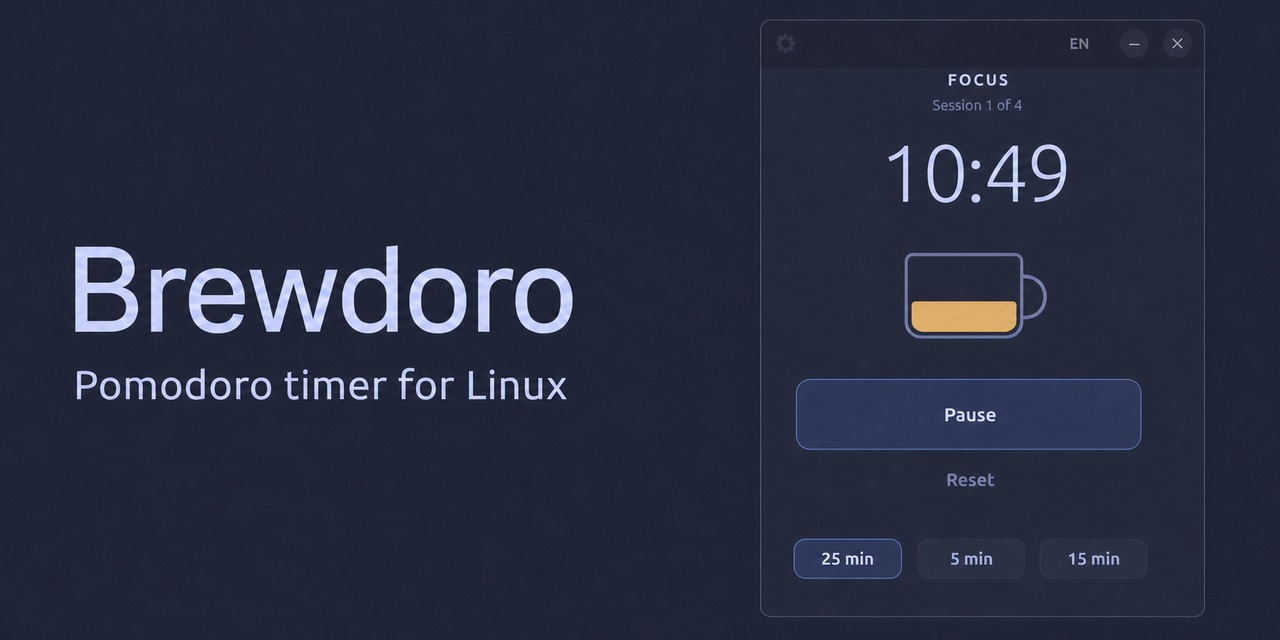
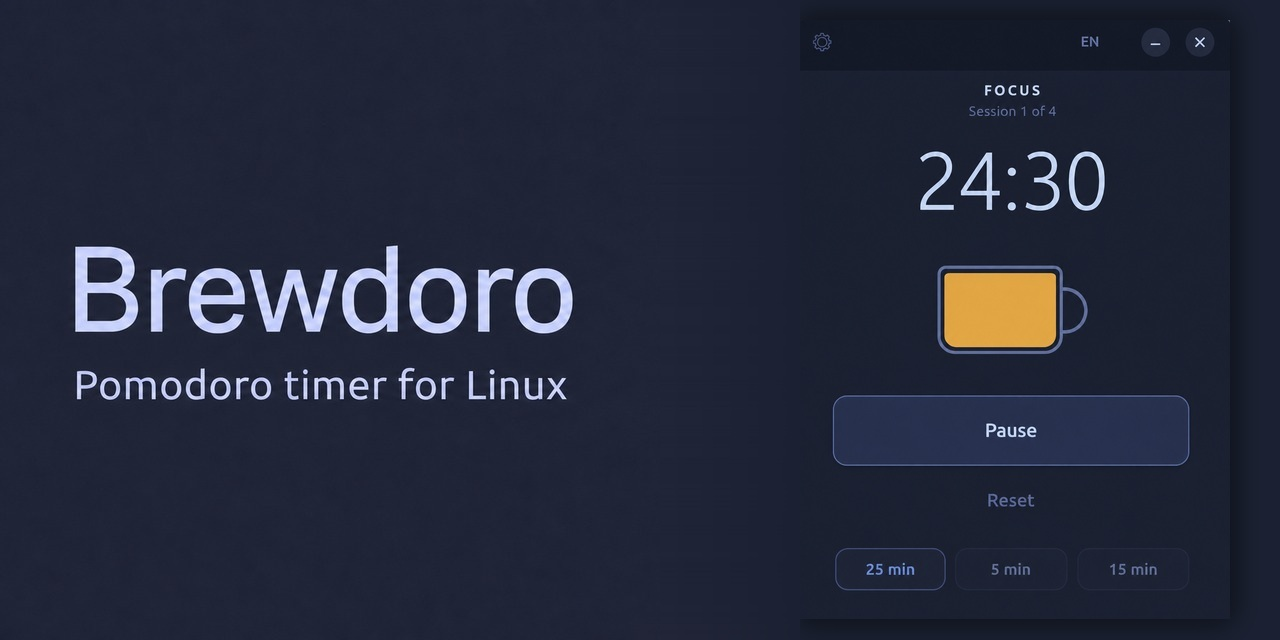
docs: use high-resolution app screenshot

diff --git a/README.ru.md b/README.ru.md
@@ -6,7 +6,7 @@ Brewdoro — небольшой Pomodoro-таймер для Linux на Python, 
 Он не мешает работать и сообщает, когда время закончилось.
 
 <p align="center">
-  <img src="docs/images/brewdoro.jpg" alt="Таймер фокусировки Brewdoro" width="353">
+  <img src="docs/images/brewdoro.png" alt="Таймер фокусировки Brewdoro" width="353">
 </p>
 
 ## Возможности

diff --git a/README.md b/README.md
@@ -7,7 +7,7 @@ Libadwaita. It stays out of the way while you work and lets you know when the
 session is over.
 
 <p align="center">
-  <img src="docs/images/brewdoro.jpg" alt="Brewdoro focus timer" width="353">
+  <img src="docs/images/brewdoro.png" alt="Brewdoro focus timer" width="353">
 </p>
 
 ## Features
